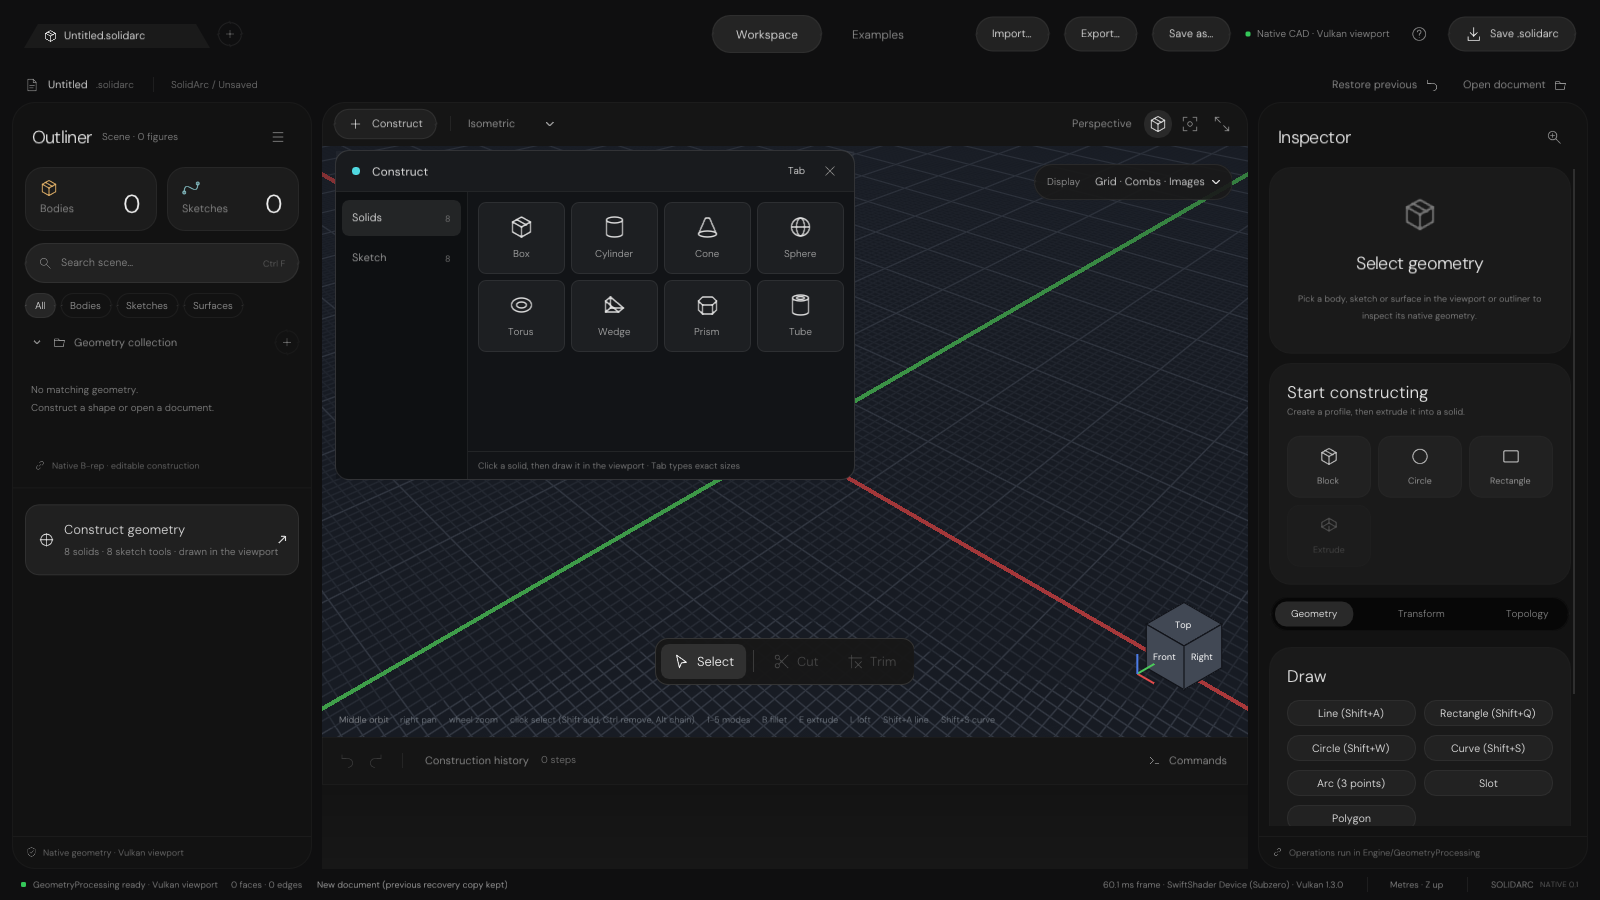
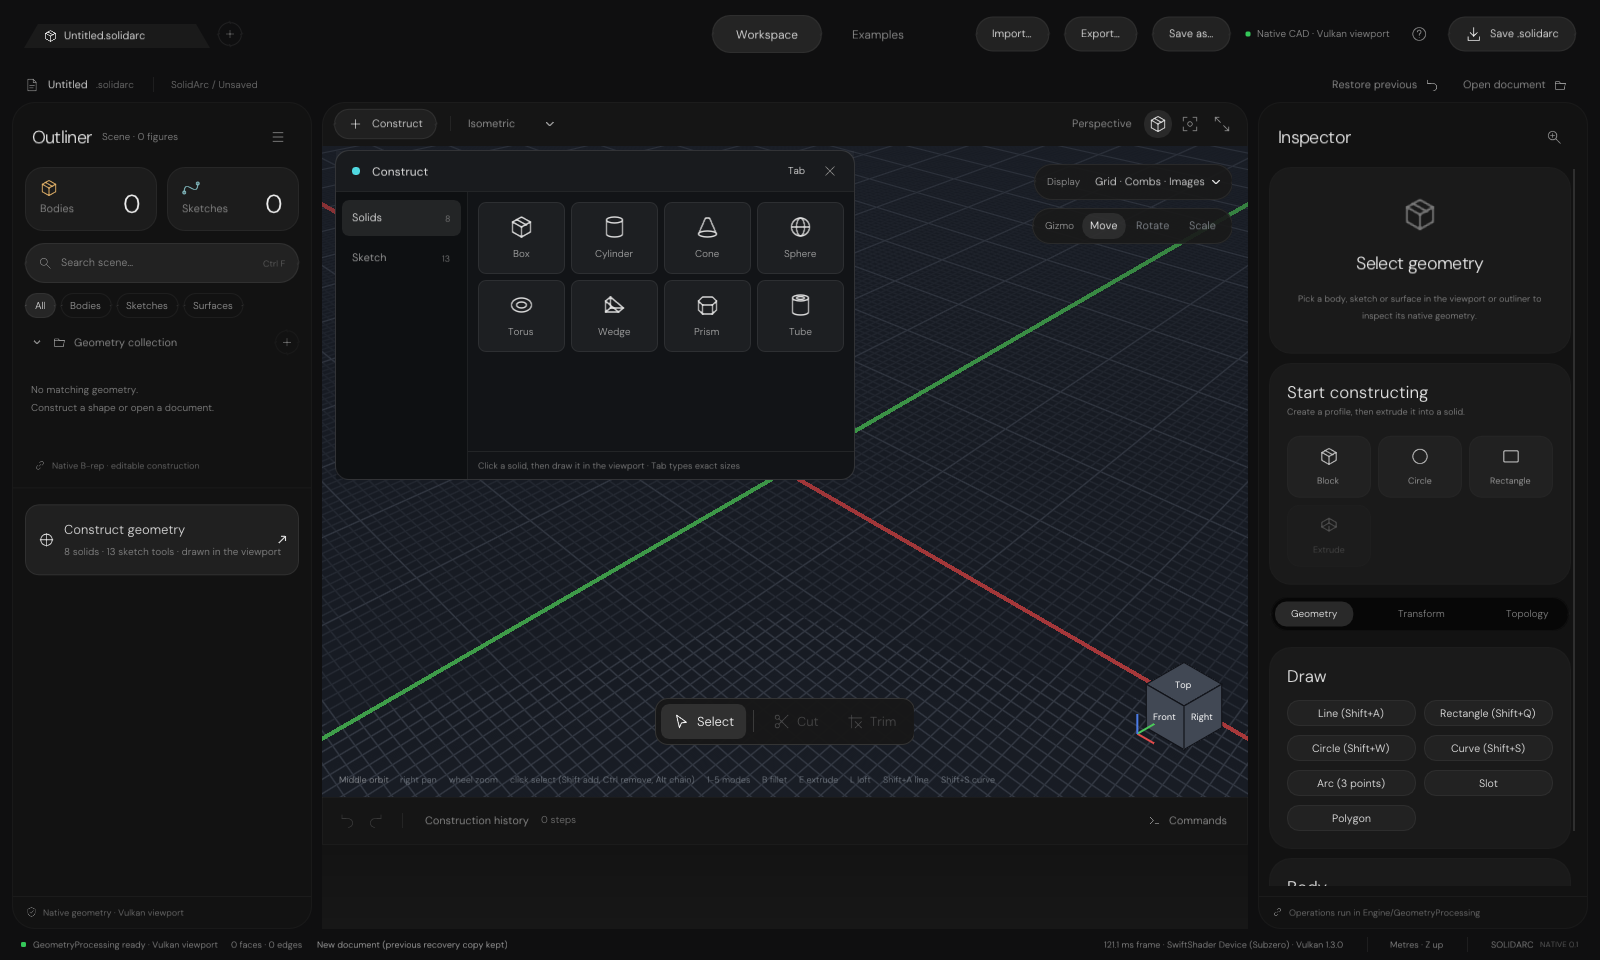
SolidArc: Construct menu keeps this frame's tile array when the section changes (crash on Sketch → Solids); refreshed 200/201

diff --git a/UI/SolidArc/Interface/SolidArcInterface.cpp b/UI/SolidArc/Interface/SolidArcInterface.cpp
@@ -6182,7 +6182,10 @@ void DrawConstructMenu(SolidArcWorkspaceState& State, ImVec2 Anchor)
         ImGui::OpenPopup("ConstructMenu");
         State.ConstructMenuRequest = false;
     }
-    const int   TileCount  = State.ConstructSection == 1 ? ConstructSketchCount : ConstructSolidCount;
+    // ⚠ The section shown this frame is fixed here: a section click below changes State.ConstructSection, and the
+    //    tiles must still come from the array TileCount was measured on (the next frame draws the new section).
+    const int   Displayed  = State.ConstructSection == 1 ? 1 : 0;
+    const int   TileCount  = Displayed == 1 ? ConstructSketchCount : ConstructSolidCount;
     const float MenuHeight = ConstructMenuHeight(TileCount);
     ImGui::SetNextWindowPos(Anchor);
     ImGui::SetNextWindowSize(ImVec2(520, MenuHeight));
@@ -6223,7 +6226,7 @@ void DrawConstructMenu(SolidArcWorkspaceState& State, ImVec2 Anchor)
         Sheet.TextRight(Section.MaximumX - 10.0f, Section.MinimumY + 18.0f, 9.0f, SolidArcInk(0x777777), Compose("%d", Index == 1 ? ConstructSketchCount : ConstructSolidCount).c_str());
     }
     // #construct-tiles — 4 columns, gap 6, padding 10; .catalogue-tile 72 px, #ffffff0c, #ffffff12 border, radius 8, glyph 24.
-    const SolidArcConstructTile* Tiles     = State.ConstructSection == 1 ? ConstructSketches : ConstructSolids;
+    const SolidArcConstructTile* Tiles     = Displayed == 1 ? ConstructSketches : ConstructSolids;
     const float                  TilesLeft = Left + 132.0f + 10.0f;
     const float                  TileWidth = 0.25f * (Right - TilesLeft - 10.0f - 3.0f * 6.0f);
     for (int Index = 0; Index < TileCount; ++Index)

diff --git a/Exhibits/SolidArc/Results/ConstructAndTrace.md b/Exhibits/SolidArc/Results/ConstructAndTrace.md
@@ -30,7 +30,7 @@
 
 | Capture | Shows |
 |---|---|
-| `Walkthrough/200ConstructSolids.png` · `201ConstructSketch.png` | The menu: 2 sections × 8 tiles |
+| `Walkthrough/200ConstructSolids.png` · `201ConstructSketch.png` | The menu: Solids 8 tiles · Sketch 13 tiles (every primitive and curve form) |
 | `202BoxBase.png` · `203BoxHeight.png` | Box base (W, D), then the height (H 1.000) |
 | `204CylinderHeight.png` · `205ConeHeight.png` · `206PrismHeight.png` · `207TorusTube.png` | Wireframe preview with R / Ø / H / r |
 | `208PolygonDimensions.png` · `209LineDimensions.png` | 2-D dimensions (R, side, 128.6° interior; length 0.943, 148.0°) |
